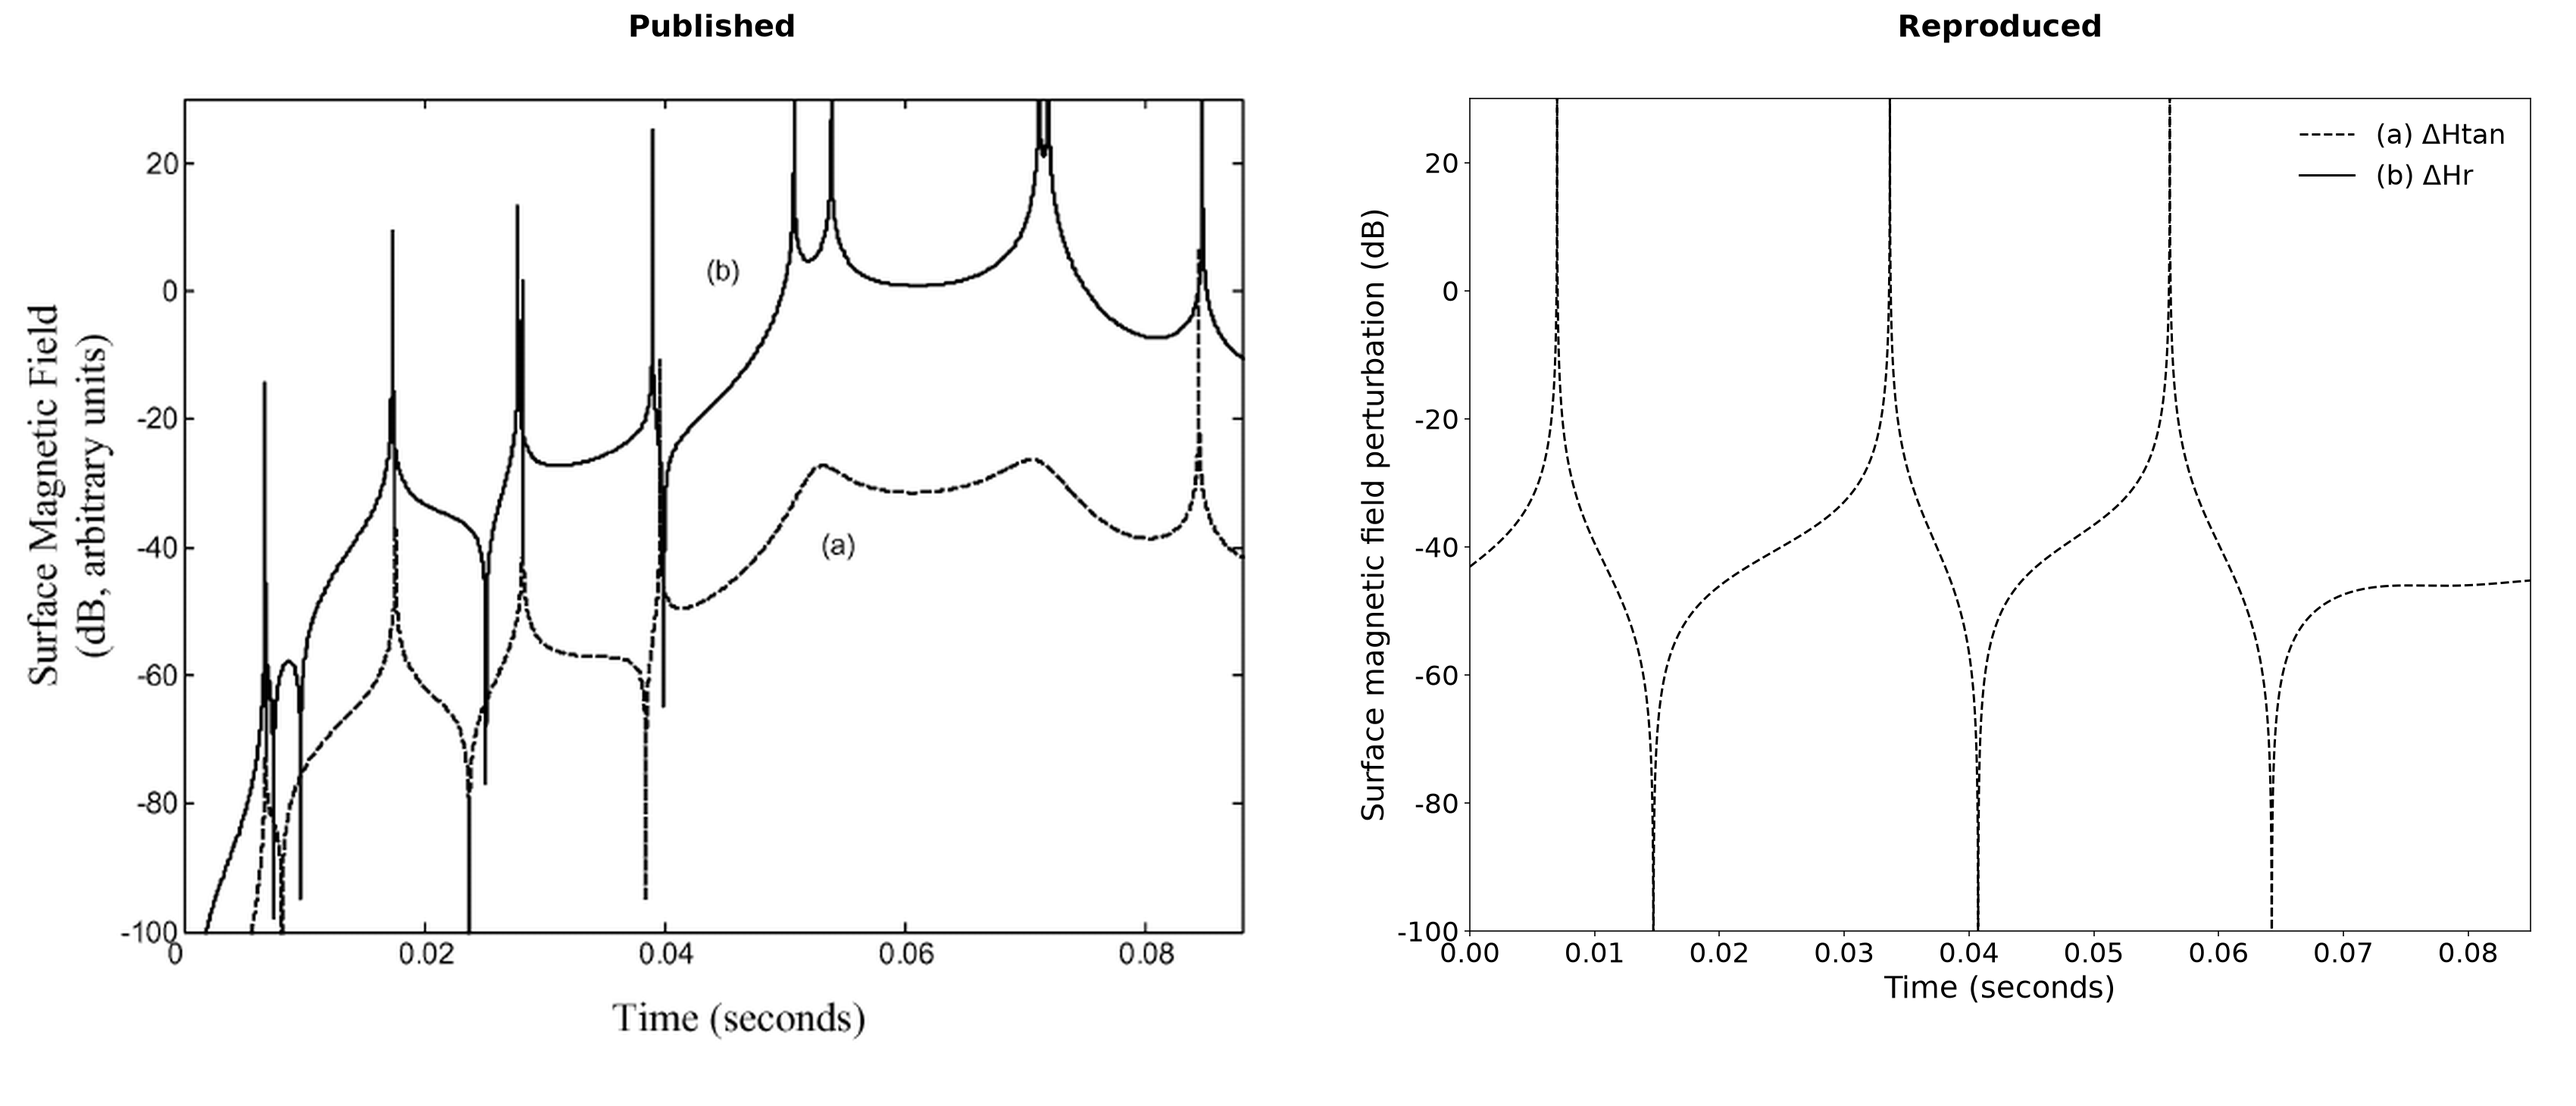
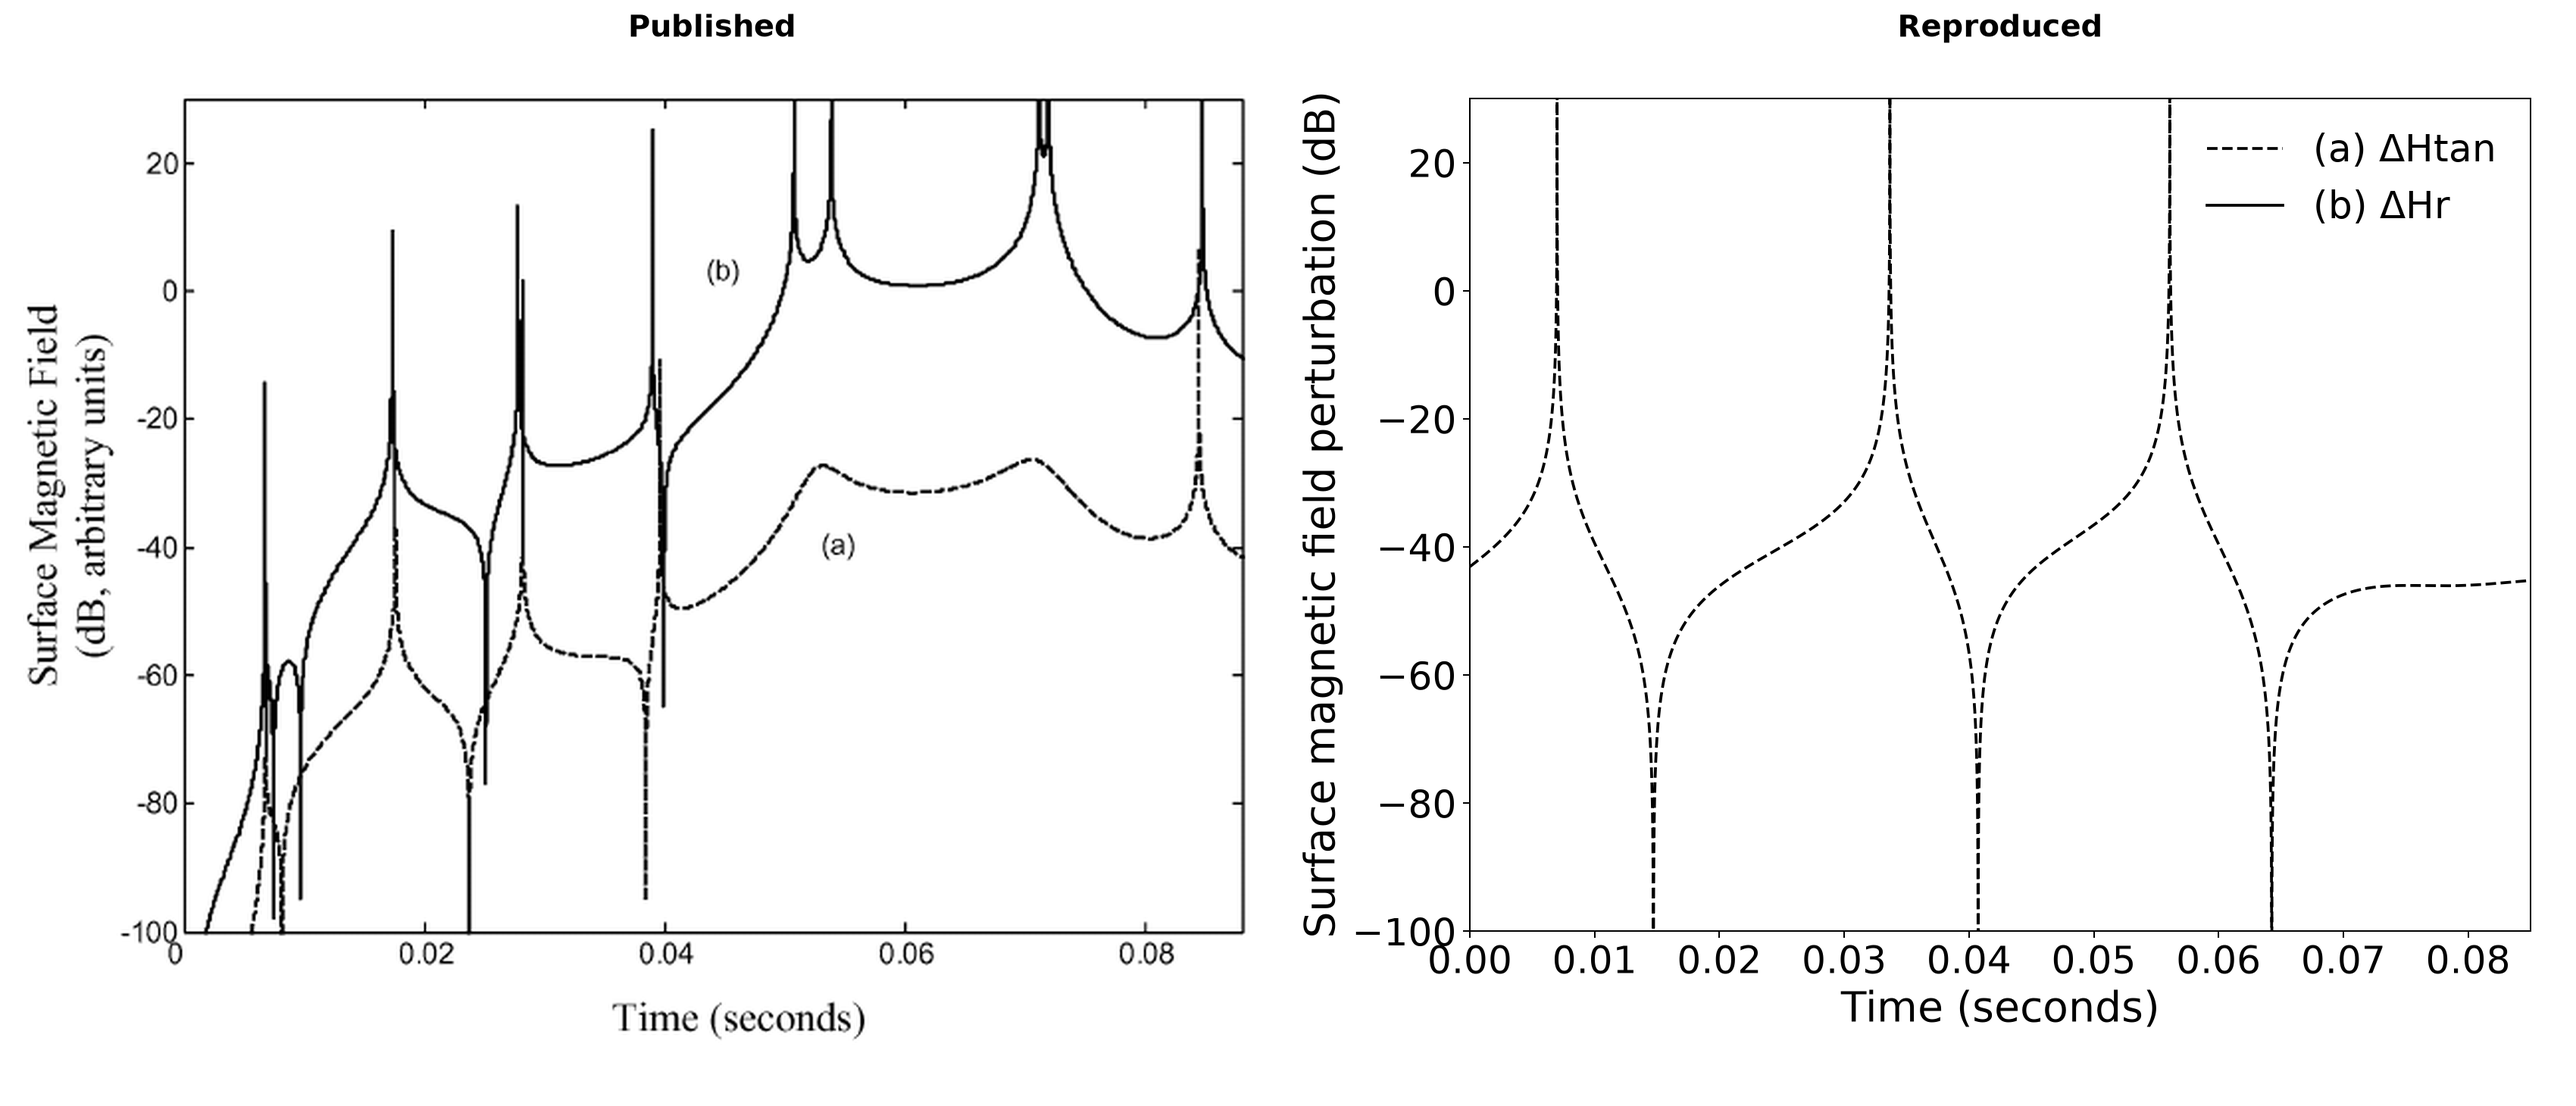
docs(verification): enlarge 2006 reproduced fonts
Increase reproduced axis labels from 20 to 22 points and major tick and legend text from 18 to 20 points across Simpson–Taflove 2006 Figures 5–7. Regenerate the comparison panels while preserving their published panels, data-frame sizes, aspect ratios, ranges, and data.\n\nMove the Figure 5 and Figure 6 reproduced frames slightly left to keep the enlarged rightmost tick labels clear of the canvas edge. Verified all boundaries and labels remain visible and ran the Simpson–Taflove regression tests (34 passed).

diff --git a/src/ionosphere_fdtd/simpson_taflove_2006.py b/src/ionosphere_fdtd/simpson_taflove_2006.py
@@ -712,10 +712,10 @@ def render_figure_5(traces: ValidationTraces, path: str | Path) -> Path:
     )
     axis.set_xticks(np.arange(0.0, 0.121, 0.02))
     axis.set_yticks(np.arange(-0.1, 1.01, 0.1))
-    axis.set_xlabel("Time (seconds)", fontsize=20)
-    axis.set_ylabel("Normalized radial electric field", fontsize=20)
-    axis.tick_params(axis="both", which="major", labelsize=18)
-    axis.legend(frameon=False, ncol=2, fontsize=18)
+    axis.set_xlabel("Time (seconds)", fontsize=22)
+    axis.set_ylabel("Normalized radial electric field", fontsize=22)
+    axis.tick_params(axis="both", which="major", labelsize=20)
+    axis.legend(frameon=False, ncol=2, fontsize=20)
     figure.savefig(output, dpi=180)
     plt.close(figure)
     return output
@@ -761,10 +761,10 @@ def render_figure_6(curves: AttenuationCurves, path: str | Path) -> Path:
     )
     axis.set_xticks(x_ticks, labels=[f"{value:g}" for value in x_ticks])
     axis.set_yticks(y_ticks, labels=[f"{value:g}" for value in y_ticks])
-    axis.set_xlabel("Frequency (Hz)", fontsize=20)
-    axis.set_ylabel("Attenuation rate (dB/Mm)", fontsize=20)
-    axis.tick_params(axis="both", which="major", labelsize=18)
-    axis.legend(frameon=False, fontsize=18)
+    axis.set_xlabel("Frequency (Hz)", fontsize=22)
+    axis.set_ylabel("Attenuation rate (dB/Mm)", fontsize=22)
+    axis.tick_params(axis="both", which="major", labelsize=20)
+    axis.legend(frameon=False, fontsize=20)
     figure.savefig(output, dpi=180)
     plt.close(figure)
     return output
@@ -797,10 +797,10 @@ def render_figure_7(curves: RadarPerturbation, path: str | Path) -> Path:
     )
     axis.set_xticks(np.arange(0.0, 0.081, 0.01))
     axis.set_yticks(np.arange(-100.0, 21.0, 20.0))
-    axis.set_xlabel("Time (seconds)", fontsize=20)
-    axis.set_ylabel("Surface magnetic field perturbation (dB)", fontsize=20)
-    axis.tick_params(axis="both", which="major", labelsize=18)
-    axis.legend(frameon=False, fontsize=18)
+    axis.set_xlabel("Time (seconds)", fontsize=22)
+    axis.set_ylabel("Surface magnetic field perturbation (dB)", fontsize=22)
+    axis.tick_params(axis="both", which="major", labelsize=20)
+    axis.legend(frameon=False, fontsize=20)
     figure.savefig(output, dpi=180)
     plt.close(figure)
     return output

diff --git a/AGENTS.md b/AGENTS.md
@@ -124,9 +124,10 @@ Current geometry references:
   18-point major tick labels and legend text.
 - Simpson–Taflove 2006 comparison plots use a `3400 x 1460` pixel canvas for
   Figures 5 and 7 and a tighter `3320 x 1460` canvas for Figure 6. They use
-  20-point reproduced axis labels and 18-point reproduced major tick labels
+  22-point reproduced axis labels and 20-point reproduced major tick labels
   and legend text. Their matched published/reproduced data frames are
   `1400 x 1111` pixels for Figure 5, `1400 x 1104` pixels for Figure 6, and
-  `1400 x 1099` pixels for Figure 7, with a 300-pixel gap between the data
-  frames. Measure these ratios from the original PDF page crops, not from a
-  previously composed comparison image.
+  `1400 x 1099` pixels for Figure 7. The data-frame gaps are 290 pixels for
+  Figure 5, 280 pixels for Figure 6, and 300 pixels for Figure 7, leaving room
+  for their different reproduced labels. Measure these ratios from the
+  original PDF page crops, not from a previously composed comparison image.
